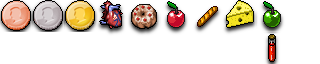
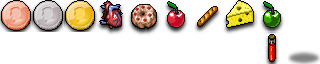
ADD Items "jump" if the player can get them

Changed region(s): [[0.875, 0.8125, 1.0, 1.0]]

diff --git a/src/ItemEntity.cpp b/src/ItemEntity.cpp
@@ -20,6 +20,8 @@ ItemEntity::ItemEntity(enumItemType itemType, float x, float y)
   setMap(game().getCurrentMap(), TILE_WIDTH, TILE_HEIGHT, OFFSET_X, OFFSET_Y);
   isBeating = false;
   isFlying = false;
+  jumpTimer = 1.0f + 0.1f * (rand() % 40);
+  h = -1.0f;
 }
 
 void ItemEntity::setMerchandise(bool isMerchandise)
@@ -95,7 +97,25 @@ void ItemEntity::animate(float delay)
       isFlying = true;
     }
     else
+    {
       CollidingSpriteEntity::animate(delay);
+      if (canBePickedUp() && !isMerchandise)
+      {
+        jumpTimer -= delay;
+        if (jumpTimer <= 0.0f)
+        {
+          jumpTimer = 2.0f + 0.1f * (rand() % 40);
+          h = 0.1f;
+          hVelocity = 150.0f;
+        }
+      }
+    }
+  }
+
+  if (h > 0.0f)
+  {
+    h += hVelocity * delay;
+    hVelocity -= 1200.0f * delay;
   }
 
   if (age > 0.7f) testSpriteCollisions();
@@ -153,7 +173,22 @@ void ItemEntity::render(sf::RenderTarget* app)
     game().write(oss.str(), 16, x, y + 18.0f, ALIGN_CENTER, fontColor, app, 1 , 1);
   }
 
-  CollidingSpriteEntity::render(app);
+  /*if (vibrateTimer < 0.6f && !isMerchandise && itemType != ItemBossHeart && canBePickedUp())
+  {
+    sprite.setTextureRect(sf::IntRect(frame % imagesProLine * width, frame / imagesProLine * height, width, height));
+    sprite.setPosition(x - 2 + rand() % 4, y - rand() % 3);
+    app->draw(sprite);
+  }*/
+  if (h > 0.1f)
+  {
+    sprite.setTextureRect(sf::IntRect(frame % imagesProLine * width, frame / imagesProLine * height, width, height));
+    sprite.setPosition(x, y - h);
+    app->draw(sprite);
+    sprite.setPosition(x, y);
+  }
+  else
+    CollidingSpriteEntity::render(app);
+
   if (game().getShowLogical())
   {
     displayBoundingBox(app);

diff --git a/src/ItemEntity.h b/src/ItemEntity.h
@@ -35,8 +35,11 @@ class ItemEntity : public CollidingSpriteEntity
 
   private:
     float timer;
+    float jumpTimer;
     bool isBeating;
     bool isFlying;
+
+    float h, hVelocity;
 };
 
 #endif // ITEMENTITY_H
